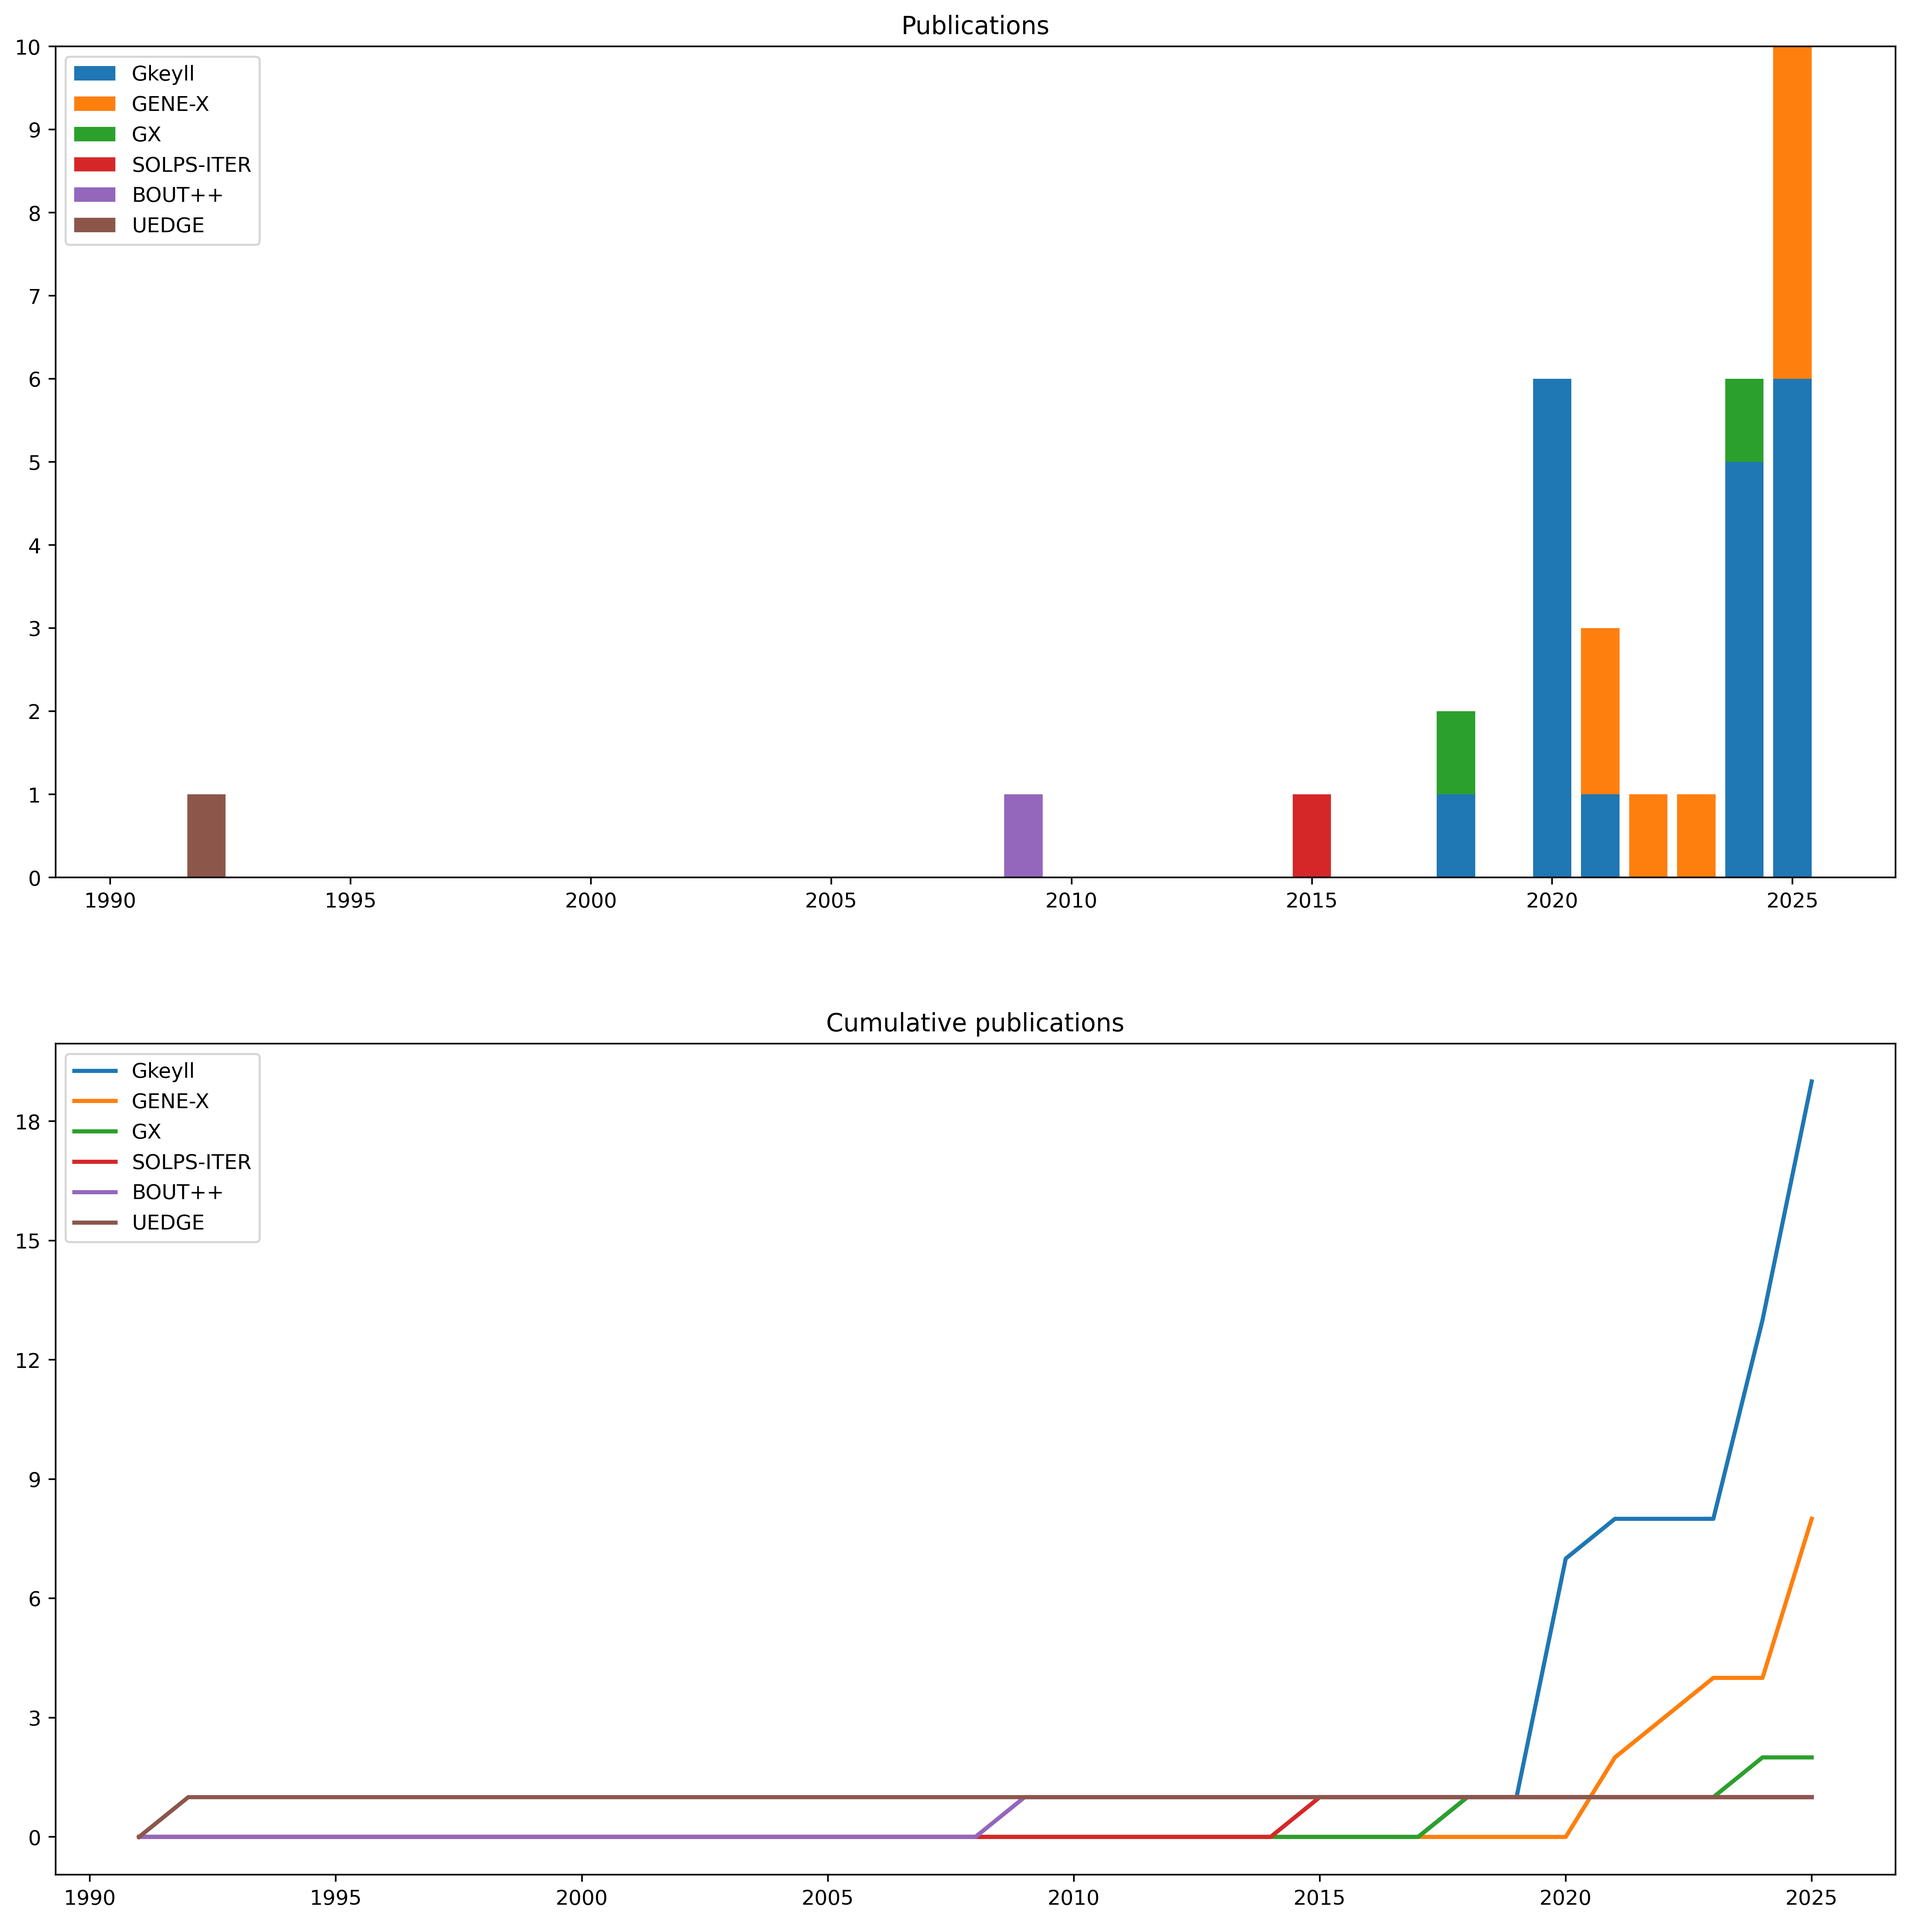
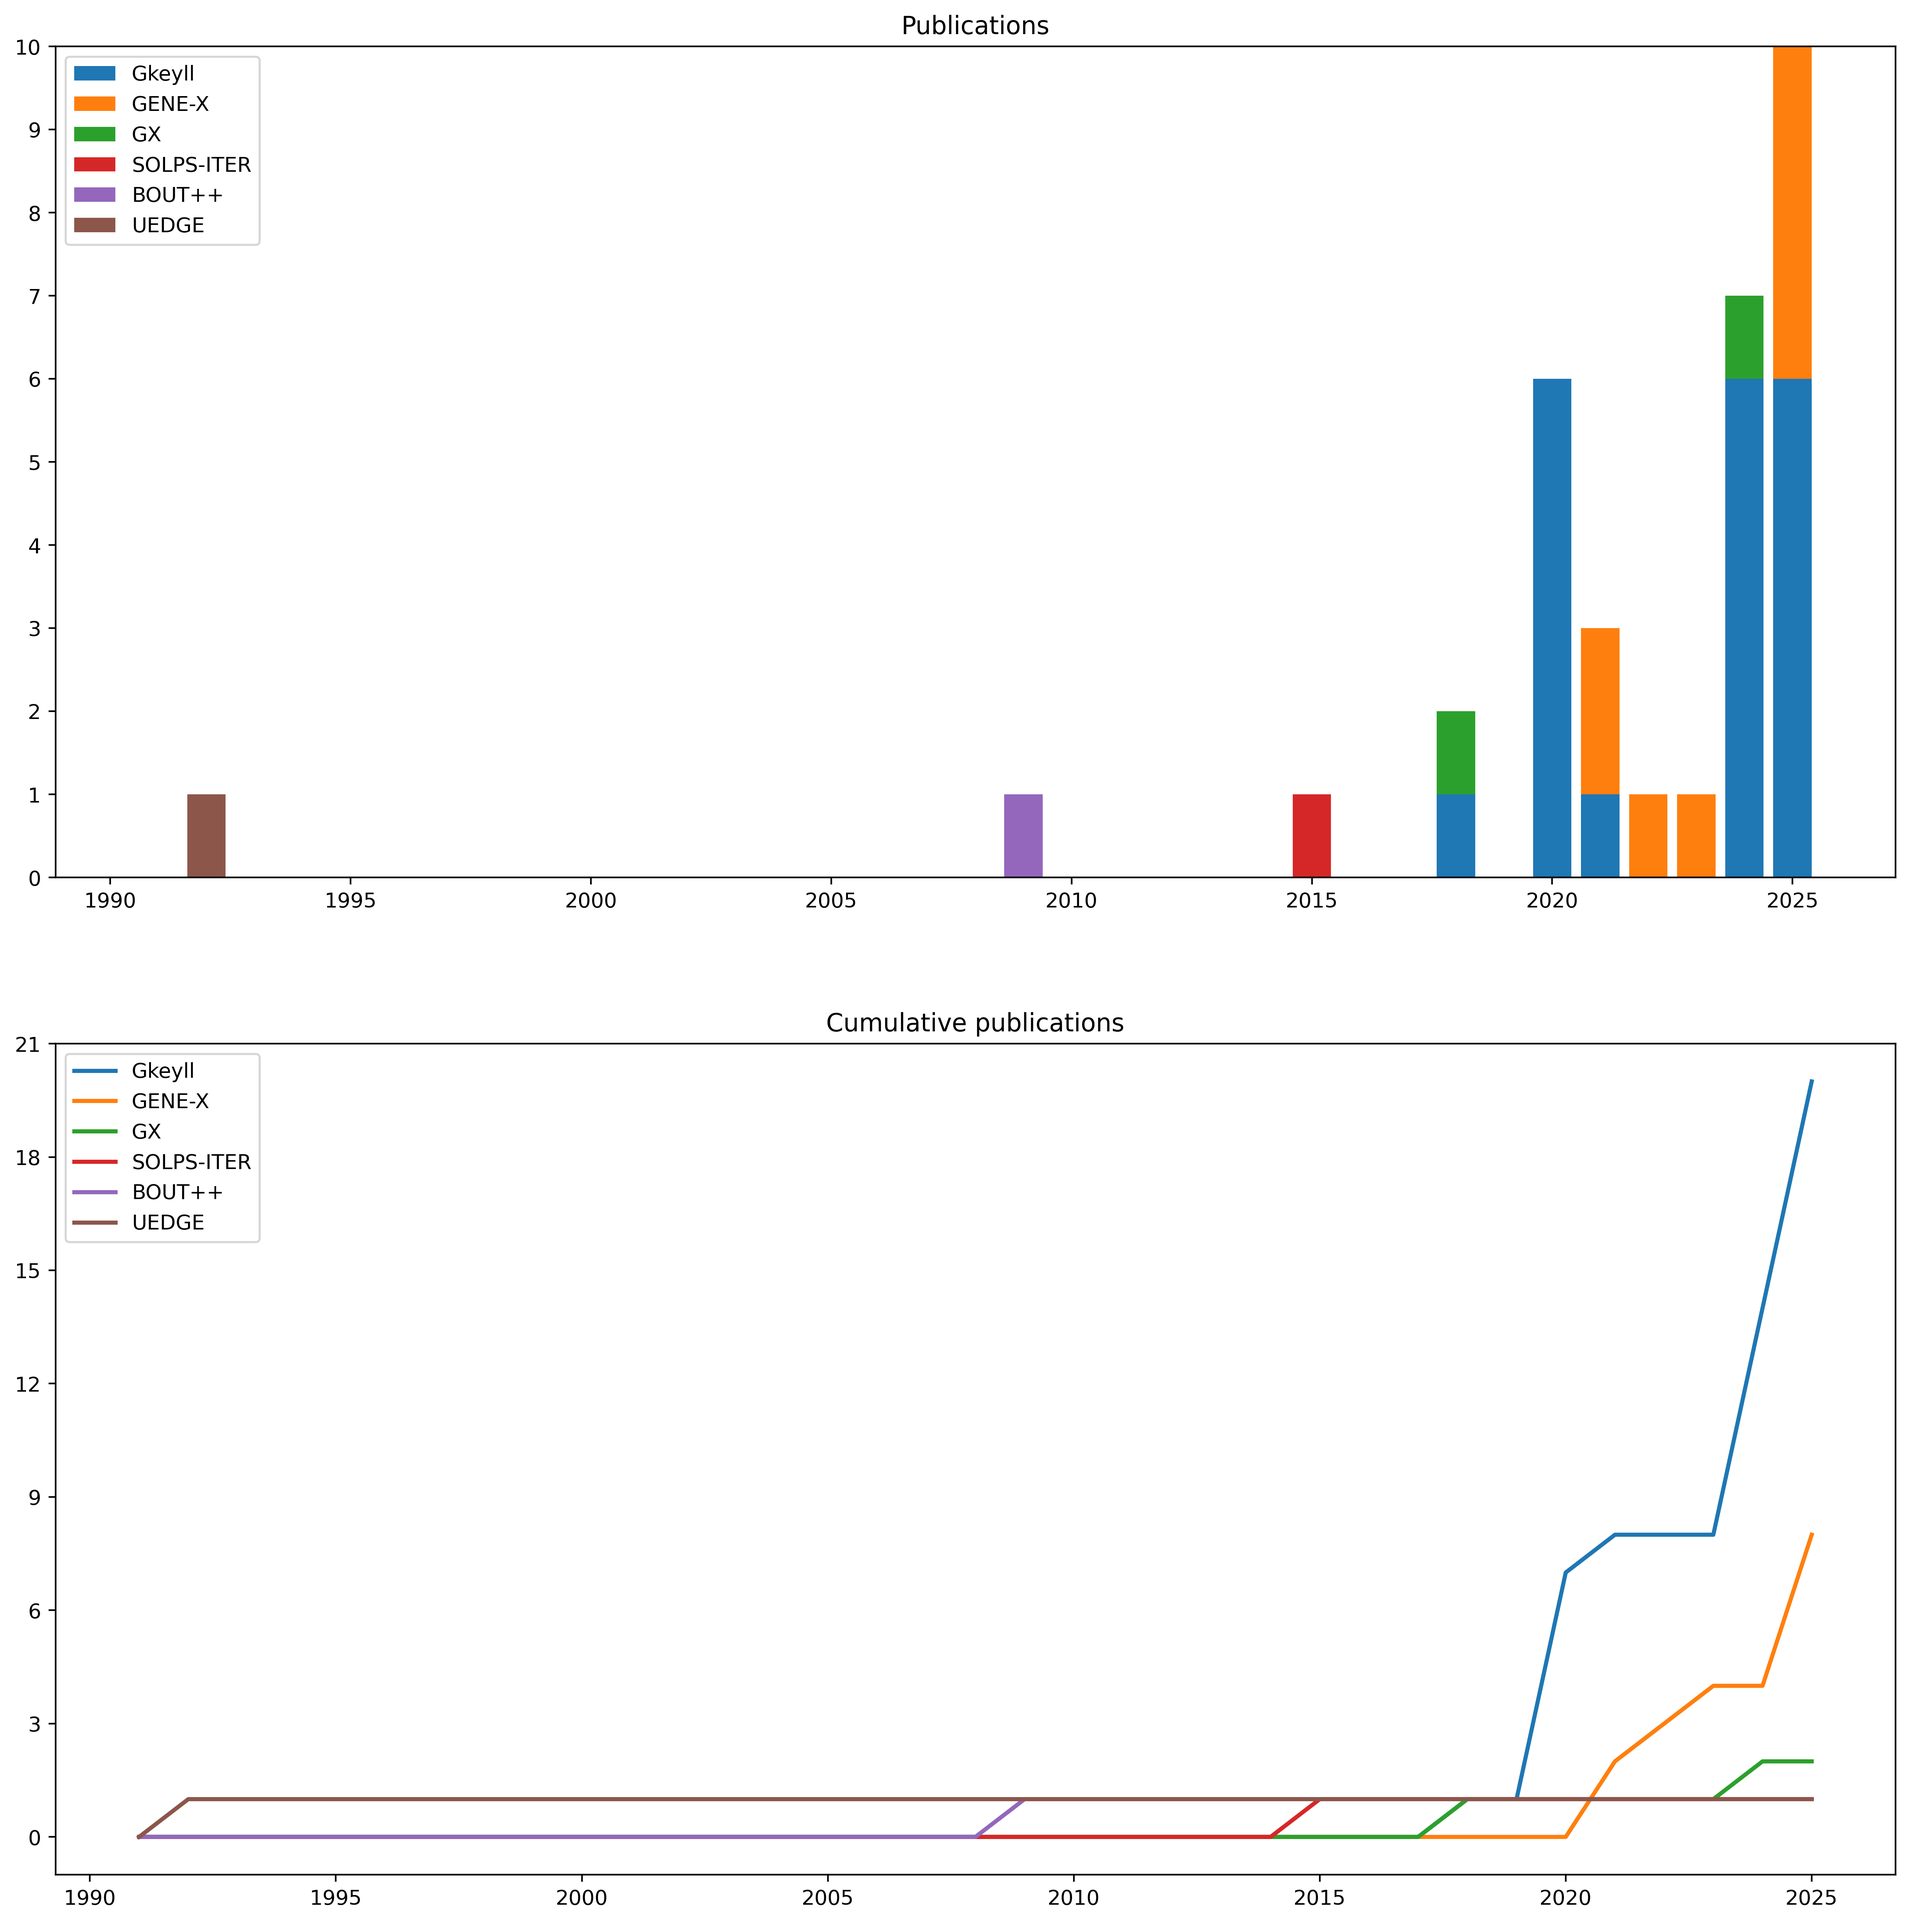
feat: add "10.3847/1538-4357/ad5cf5"

diff --git a/README.md b/README.md
@@ -16,6 +16,7 @@
 - Simulations of edge and SOL turbulence in diverted negative and positive triangularity plasmas. Ulbl at el. (2025) [10.1088/1741-4326/adfd70](https://doi.org/10.1088/1741-4326/adfd70)
 - Plasma edge and scrape-off layer turbulence in gyrokinetic simulations of negative triangularity plasmas. Bernard at el. (2024) [10.1088/1361-6587/ad8186](https://doi.org/10.1088/1361-6587/ad8186)
 - The kinetic analog of the pressure-strain interaction. Conley at el. (2024) [10.1063/5.0231200](https://doi.org/10.1063/5.0231200)
+- Scale Separation Effects on Simulations of Plasma Turbulence. Edyvean at el. (2024) [10.3847/1538-4357/ad5cf5](https://doi.org/10.3847/1538-4357/ad5cf5)
 - Conservative discontinuous Galerkin interpolation: Sheared boundary conditions. Francisquez at el. (2024) [10.1016/j.cpc.2024.109109](https://doi.org/10.1016/j.cpc.2024.109109)
 - GX: a GPU-native gyrokinetic turbulence code for tokamak and stellarator design. Mandell at el. (2024) [10.1017/S0022377824000631](https://doi.org/10.1017/S0022377824000631)
 - Weak baselines and reporting biases lead to overoptimism in machine learning for fluid-related partial differential equations. McGreivy and Hakim (2024) [10.1038/s42256-024-00897-5](https://doi.org/10.1038/s42256-024-00897-5)
